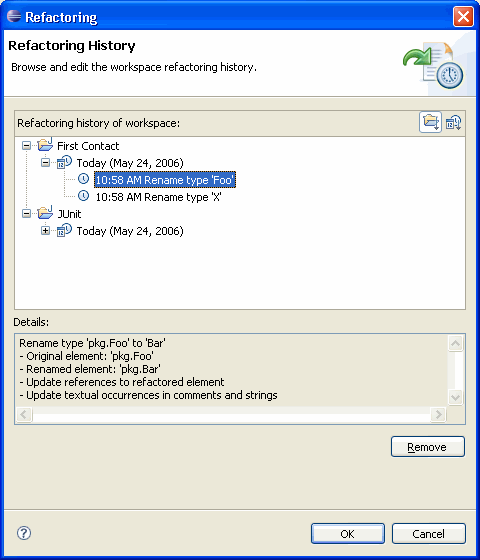
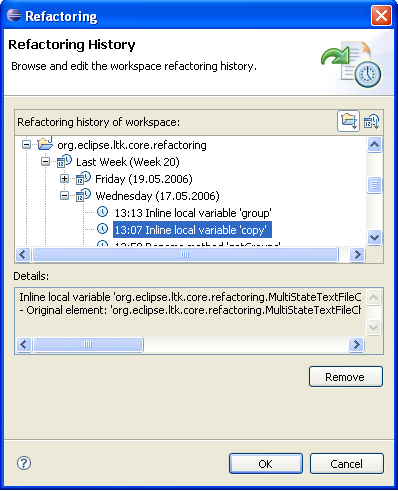
Updated What's New

diff --git a/bundles/org.eclipse.jdt.doc.user/whatsNew/jdt_whatsnew.html b/bundles/org.eclipse.jdt.doc.user/whatsNew/jdt_whatsnew.html
@@ -44,49 +44,50 @@ document in the Workbench User Guide.
       <td colspan="2"><a name="JavaUI"></a> <div style="font-size: 20px; font-weight: bold;"> 
           General Java Tools </div></td>
     </tr>
+
+    <tr> 
+      <td  valign="top"> <p align="right"><b> Refactoring History </b></p></td>
+      <td  valign="top"> <p> Most of the refactorings offered by JDT are now tracked in a <b>Refactoring History</b>. The refactoring infrastructures
+      stores detailed information about refactorings which have been performed on your workspace.<br><br>
+      The refactoring history can be browsed and edited using <b>Refactor &gt; History...</b> </p>
+        <p> <img alt="The refactoring history" src="images/refactoring-history.png"> 
+        </p></td>
+    </tr>
     
     <tr> 
       <td  valign="top"> <p align="right"><b> Create and apply refactoring scripts 
           </b></p></td>
-      <td  valign="top"> <p> Refactorings executed in one workspace can now be 
-          exported and reapplied in other workspaces. </p>
-        <p> This feature allows you, for example, to make changes to API classes 
-          using refactorings (i.e. rename a type) and ship this changes to your 
-          clients. Your clients can then reapply the refactorings in there workspaces 
-          to prevent API incompatibilities. </p>
-        <p> Create a script from the refactoring history using <b>Refactor &gt; 
+      <td  valign="top"> <p> Refactorings performed on your local workspace can now
+      be exported into a <b>Refactoring Script</b> and replayed on an arbitrary workspace. </p>
+        <p>        	Such refactoring scripts can be used in different scenarios such as automatic fixing of breaking API changes between software layers
+        	or providing patches with rich semantics.</p>
+        <p> Create a refactoring script from the refactoring history using <b>Refactor &gt; 
           Create Script...</b> </p>
-        <p> <img alt="Create refactoring script" src="images/create-script.png"> 
+        <p> <img alt="Create Script Action" src="images/create-script.png"> 
         </p>
-        <p> To apply the generated script on an arbitrary workspace use <b>Refactor 
-          &gt; Apply Script...</b> </p></td>
+        <p> To apply the generated refactoring script on an arbitrary workspace use <b>Refactor 
+          &gt; Apply Script...</b> </p>
+          <p> A new extension point allows plug-in writers to contribute refactoring scripting support for new or already existing refactorings.
+          See the <code>org.eclipse.ltk.core.refactoring.refactoringContributions</code> 
+          extension point for details. </p></td>
     </tr>
     
     <tr> 
       <td  valign="top"> <p align="right"><b> JAR file export with refactorings 
           </b></p></td>
-      <td  valign="top"> <p> You can now include refactoring information into 
-          a JAR file during a JAR export. </p>
-        <p> Use the <b>JAR Export Wizard</b> to export your code together with 
-          refactoring information. Access this wizard through <b>File &gt; Export...</b> 
-          and select the refactorings to export on the first page of the wizard. 
+      <td  valign="top"> <p>When exporting a JAR file from the workspace, the JAR Export Wizard offers the option
+			to include refactoring information into the JAR file.<br><br>
+			Use <b>File &gt; Export...</b> and select <b>JAR file</b>. On the first page of the JAR Export Wizard, select
+			<b>Export refactorings for checked projects</b>. Click on the link to select the refactorings to include.
         </p>
         <p> <img alt="Jar export refactoring selection" src="images/jar-export.png"> 
         </p>
-        <p> Your clients can update there workspaces by using <b>Refactor &gt; 
-          Migrate JAR File...</b>. </p>
-        <p> <img alt="Replace JAR action" src="images/replace-jar.png"> 
+        <p>			Clients are then able to migrate an old version of the JAR file to a new one using the <b>Refactor &gt; Migrate JAR File...</b> refactoring. Alternatively, you can also use
+        <b>Build Path &gt; Migrate JAR File...</b> if a JAR file is currently selected.</p>
+        <p> <img alt="Migrate JAR File Action" src="images/replace-jar.png"> 
         </p>
-        <p> This will automatically offer to replay the stored refactoring on 
-          the source files in the project. </p></td>
-    </tr>
-    
-    <tr> 
-      <td  valign="top"> <p align="right"><b> Refactoring History </b></p></td>
-      <td  valign="top"> <p> A <b>Refactoring History</b> stores the information 
-          about refactorings executed in your workspace. You can access and modify 
-          this history through <b>Refactor &gt; History...</b> </p>
-        <p> <img alt="The refactoring history" src="images/refactoring-history.png"> 
+        <p>
+        This refactoring automatically updates all code which is dependent on the old version of the JAR file to use  the new version of the JAR file.
         </p></td>
     </tr>
     
